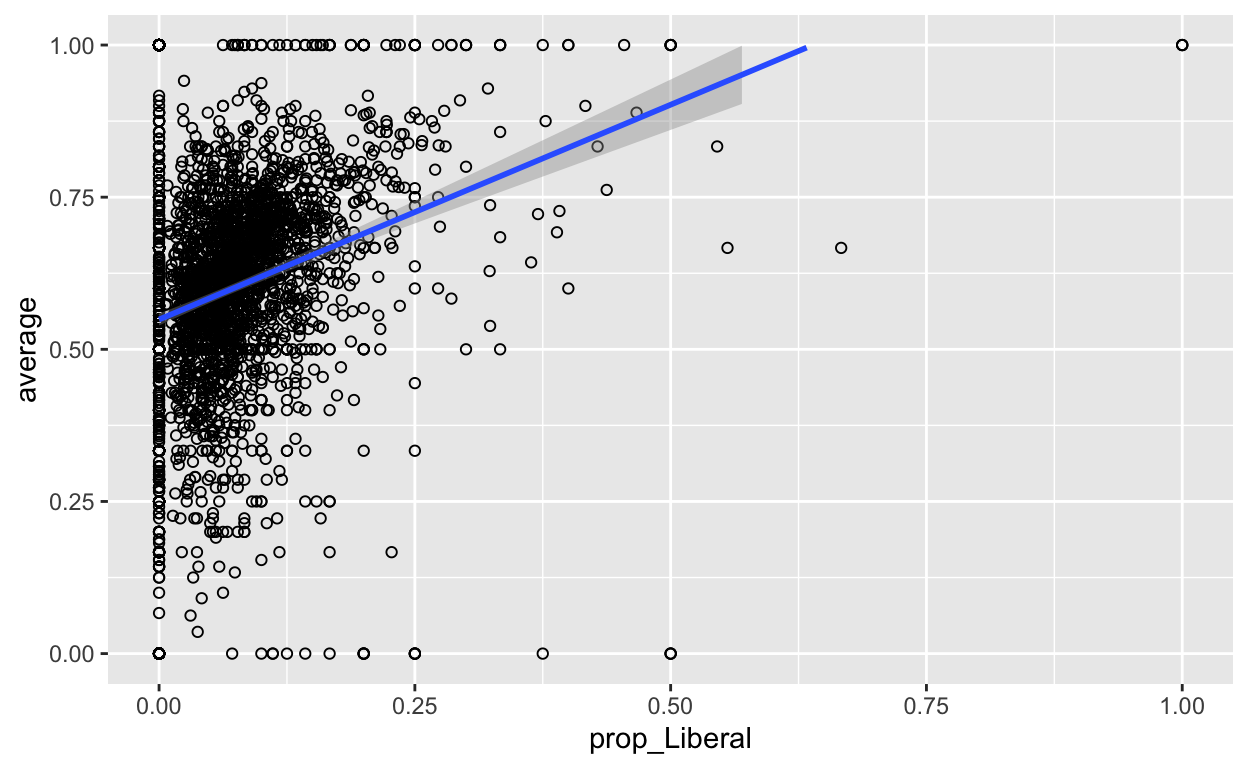
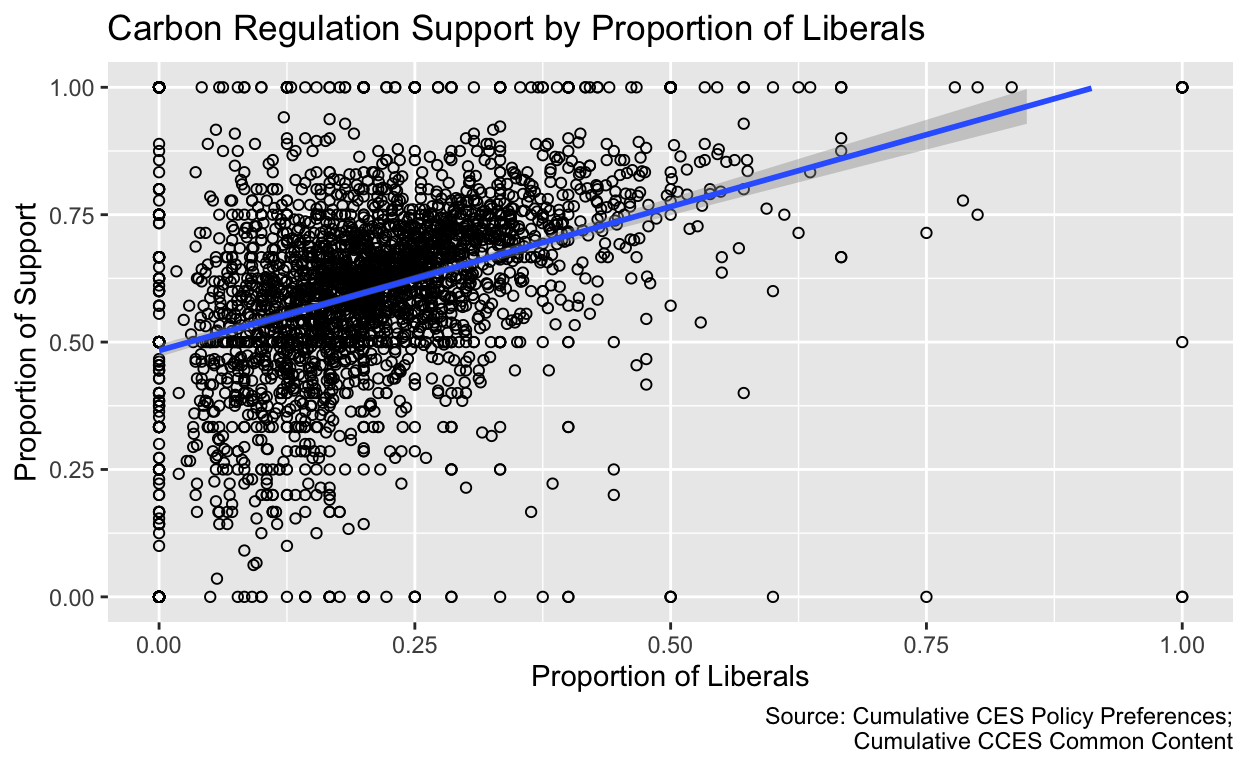
First Commit Day 2

diff --git a/index.html b/index.html
@@ -115,7 +115,7 @@ code span.wa { color: #5e5e5e; font-style: italic; } /* Warning */
   <!--/radix_placeholder_rmarkdown_metadata-->
   
   <script type="text/json" id="radix-resource-manifest">
-  {"type":"character","attributes":{},"value":["cumulative_2006-2021.dta","cumulative_ces_policy_preferences.dta","index_files/anchor-4.2.2/anchor.min.js","index_files/bowser-1.9.3/bowser.min.js","index_files/distill-2.2.21/template.v2.js","index_files/figure-html5/Avergy Support for Renewables across US Counties-1.png","index_files/figure-html5/Bivariate Analysis of Support vs. Education-1.png","index_files/figure-html5/Bivariate Analysis of Support vs. Ideology-1.png","index_files/figure-html5/Bivariate Analysis of Support vs. Income-1.png","index_files/figure-html5/Bivariate Analysis of Support vs. Race-1.png","index_files/figure-html5/Bivariate Analysis of Support vs. State-1.png","index_files/figure-html5/Bivariate Analysis of Support vs. Unemployment-1.png","index_files/figure-html5/Multivariate Analysis-1.png","index_files/figure-html5/unnamed-chunk-4-1.png","index_files/figure-html5/unnamed-chunk-5-1.png","index_files/figure-html5/unnamed-chunk-6-1.png","index_files/header-attrs-2.15/header-attrs.js","index_files/header-attrs-2.17/header-attrs.js","index_files/jquery-3.6.0/jquery-3.6.0.js","index_files/jquery-3.6.0/jquery-3.6.0.min.js","index_files/jquery-3.6.0/jquery-3.6.0.min.map","index_files/popper-2.6.0/popper.min.js","index_files/tippy-6.2.7/tippy-bundle.umd.min.js","index_files/tippy-6.2.7/tippy-light-border.css","index_files/tippy-6.2.7/tippy.css","index_files/tippy-6.2.7/tippy.umd.min.js","index_files/webcomponents-2.0.0/webcomponents.js"]}
+  {"type":"character","attributes":{},"value":["cumulative_2006-2021.dta","cumulative_ces_policy_preferences.dta","index_files/anchor-4.2.2/anchor.min.js","index_files/bowser-1.9.3/bowser.min.js","index_files/distill-2.2.21/template.v2.js","index_files/figure-html5/Avergy Support for Renewables across US Counties-1.png","index_files/figure-html5/Bivariate Analysis of Minority Prop vs. CRPP-1.png","index_files/figure-html5/Bivariate Analysis of Support vs. Education-1.png","index_files/figure-html5/Bivariate Analysis of Support vs. Ideology-1.png","index_files/figure-html5/Bivariate Analysis of Support vs. Income-1.png","index_files/figure-html5/Bivariate Analysis of Support vs. Race-1.png","index_files/figure-html5/Bivariate Analysis of Support vs. State-1.png","index_files/figure-html5/Bivariate Analysis of Support vs. Unemployment-1.png","index_files/figure-html5/Multivariate Analysis Female Proportion vs. CRPP-1.png","index_files/figure-html5/Multivariate Analysis-1.png","index_files/figure-html5/unnamed-chunk-4-1.png","index_files/figure-html5/unnamed-chunk-5-1.png","index_files/figure-html5/unnamed-chunk-6-1.png","index_files/header-attrs-2.15/header-attrs.js","index_files/header-attrs-2.17/header-attrs.js","index_files/jquery-3.6.0/jquery-3.6.0.js","index_files/jquery-3.6.0/jquery-3.6.0.min.js","index_files/jquery-3.6.0/jquery-3.6.0.min.map","index_files/popper-2.6.0/popper.min.js","index_files/tippy-6.2.7/tippy-bundle.umd.min.js","index_files/tippy-6.2.7/tippy-light-border.css","index_files/tippy-6.2.7/tippy.css","index_files/tippy-6.2.7/tippy.umd.min.js","index_files/webcomponents-2.0.0/webcomponents.js"]}
   </script>
   <!--radix_placeholder_navigation_in_header-->
   <!--/radix_placeholder_navigation_in_header-->
@@ -1528,16 +1528,16 @@ code span.wa { color: #5e5e5e; font-style: italic; } /* Warning */
 </div>
 <h2 id="project-proposal">Project Proposal</h2>
 <p>How can different demographics, geography and socioeconomic status impact approval of climate policy or action on climate change? I hypothesize that the strongest correlation between an explanatory variable and the outcome variable(support for climate policy) will be seen with the separation across partly lines. Additionally there will be a weaker correlation when evaluating race as an explanatory variable. I will test this hypothesis through data collected from the Cumulative CES Policy Preferences which includes policy preferences from 2006 to 2021 and the Cumulative CCES Common Content data which contains many of the explanatory data I will analyze. Both of these data sources are broad surveys that sample random populations across the United States. Throughout my analysis i will use several different explanatory variables which will be in the form of different environmental policies that were surveyed in the CCES data. If I find that there is a greater support for environmental policies among democrats and other demographics that may lean overwhelmingly progressive then my hypothesis will be proven correct. This would be noted by a positive and significant coefficient when I run my regression.</p>
-<h2 id="introduction">Introduction</h2>
+<h1 id="introduction">Introduction</h1>
 <p>Using survey data generated from counties across the United States this project seeks to determine the impact of various demographics, geographic locations, and socioeconomic statuses on various environmental policy preferences.</p>
-<h2 id="data-and-research-design">Data and Research Design</h2>
+<h1 id="data-and-research-design">Data and Research Design</h1>
 <p>To investigate these relationships I relied on data from 2 different sources.</p>
 <ol type="1">
 <li><p><strong>Cumulative CES Policy Preferences</strong> which compiles policy preference question items from Cooperative Election Study (CES) polls over time. Specifically, this data set compiles the results from 557,456 responses across 54 policy preference question items, from 2006-2021. In this report I analyzed the responses in relation to only one of these policy preferences enviro_carbon. The question asked to respondents on this policy preference asked whether the respondent believe that the power should be <strong>given</strong> to the Environmental Protection Agency to regulate carbon dioxide emissions.</p></li>
 <li><p><strong>Cumulative CCES Common Content</strong> which compiles the same policy preference data from the above data set, but adds several categorical variables that will be of use in this report. The main variables I will focus on in this report are race and gender demographics along with political ideologies.</p></li>
 </ol>
 <p>The research design is observational with correlational analysis that makes no assumptions about causal relationships.</p>
-<p>The Cumulative CES Policy Preferences data provides the outcome variable, <strong>enviro_carbon</strong>. This preference were obtained through a survey where respondents could select support or oppose for the policy. With this in mind, this of the outcome variable can be demonstrated as a proportion of support to number of respondents. Below are graphics demonstrating first, the overall proportion of support to opposition of EPA carbon regulation within the entirety of the country, and second, the proportion of support across every county within the US.</p>
+<p>The Cumulative CES Policy Preferences data provides the outcome variable, <strong>Support for EPA CO2 Regulation</strong>. This preference were obtained through a survey where respondents could select support or oppose for the policy. With this in mind, this of the outcome variable can be demonstrated as a proportion of support to number of respondents. Below are graphics demonstrating first, the overall proportion of support to opposition of EPA carbon regulation within the entirety of the country, and second, the proportion of support across every county within the US.</p>
 <div class="layout-chunk" data-layout="l-body">
 <p><img src="index_files/figure-html5/unnamed-chunk-4-1.png" width="624" style="display: block; margin: auto;" /></p>
 </div>
@@ -1545,16 +1545,18 @@ code span.wa { color: #5e5e5e; font-style: italic; } /* Warning */
 <p><img src="index_files/figure-html5/unnamed-chunk-5-1.png" width="624" style="display: block; margin: auto;" /></p>
 </div>
 <p>The range of proportion as seen in the second plot is anywhere from 0 to 1 meaning that there are some examples of counties where no respondents supported the policy, and some counties where all respondents supported the county.</p>
-<h2 id="results">Results</h2>
+<h1 id="results">Results</h1>
+<p>Before performing the regression of Support for Carbon Regulation on the identified explanatory variables, the bivariate relationship can be visualized in a scatter plot. Each data point in these plots represents a unique county in the US with a proportion of CRPP and a proportion for the explanatory variable. The explanatory variable is on the x axis and CRPP is on the y axis.</p>
 <div class="layout-chunk" data-layout="l-body">
-<p><img src="index_files/figure-html5/Multivariate%20Analysis-1.png" width="624" style="display: block; margin: auto;" /></p>
+<p><img src="index_files/figure-html5/Multivariate%20Analysis%20Female%20Proportion%20vs.%20CRPP-1.png" width="624" style="display: block; margin: auto;" /></p>
 </div>
 <div class="layout-chunk" data-layout="l-body">
-<p><img src="index_files/figure-html5/Bivariate%20Analysis%20of%20Support%20vs.%20Race-1.png" width="624" style="display: block; margin: auto;" /></p>
+<p><img src="index_files/figure-html5/Bivariate%20Analysis%20of%20Minority%20Prop%20vs.%20CRPP-1.png" width="624" style="display: block; margin: auto;" /></p>
 </div>
 <div class="layout-chunk" data-layout="l-body">
 <p><img src="index_files/figure-html5/Bivariate%20Analysis%20of%20Support%20vs.%20Ideology-1.png" width="624" style="display: block; margin: auto;" /></p>
 </div>
+<p>The line of best fit that has been drawn in each of these plots shows us that there is an positive relationship between higher proportions of women, minorities, and liberals, and support for EPA regulation on carbon. The following regression will provide more information on these positive relationships.</p>
 <div class="layout-chunk" data-layout="l-body">
 <pre><code>
 Call:
@@ -1565,10 +1567,16 @@ Coefficients:
      0.6497       0.1038  </code></pre>
 </div>
 <div class="layout-chunk" data-layout="l-body">
+<pre><code>
+Call:
+lm(formula = carbon ~ Nonwhite + liberal + unemployed, data = edited_ces)
 
+Coefficients:
+(Intercept)     Nonwhite      liberal   unemployed  
+    0.59896      0.09185      0.28640      0.02239  </code></pre>
 </div>
 <h2 id="conclusion">Conclusion</h2>
-<div class="sourceCode" id="cb2"><pre class="sourceCode r distill-force-highlighting-css"><code class="sourceCode r"></code></pre></div>
+<div class="sourceCode" id="cb3"><pre class="sourceCode r distill-force-highlighting-css"><code class="sourceCode r"></code></pre></div>
 <!--radix_placeholder_article_footer-->
 <!--/radix_placeholder_article_footer-->
 </div>
